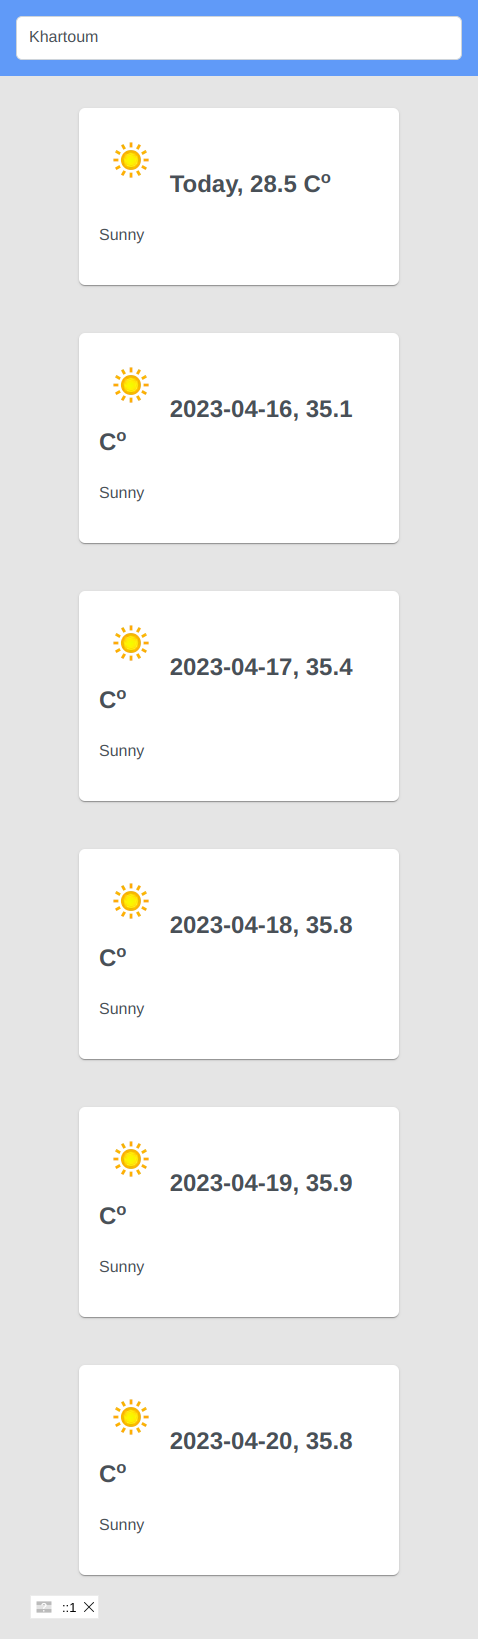
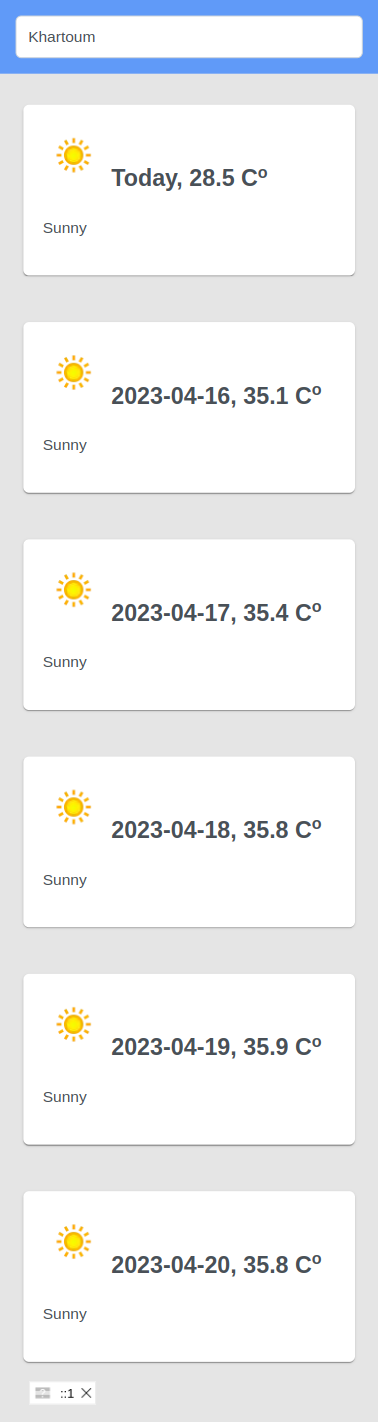
fix card width

diff --git a/src/views/HomeView.vue b/src/views/HomeView.vue
@@ -65,7 +65,7 @@ function fetchForecast() {
   </div>
   <div v-else class="mt-3">
     <div class="p-fluid flex flex-row flex-wrap justify-content-evenly">
-      <Card v-for="forecastday in allWeatherInfo" :key="forecastday.date" class="w-20rem mb-6 mx-3">
+      <Card v-for="forecastday in allWeatherInfo" :key="forecastday.date" class="w-22rem mb-6 mx-3">
         <template #title>
           <img style="width: 64px" :alt="forecastday.description" :src="forecastday.icon" />
           {{ forecastday.date }}, {{ forecastday.temperature }} C<sup><small>o</small></sup>
